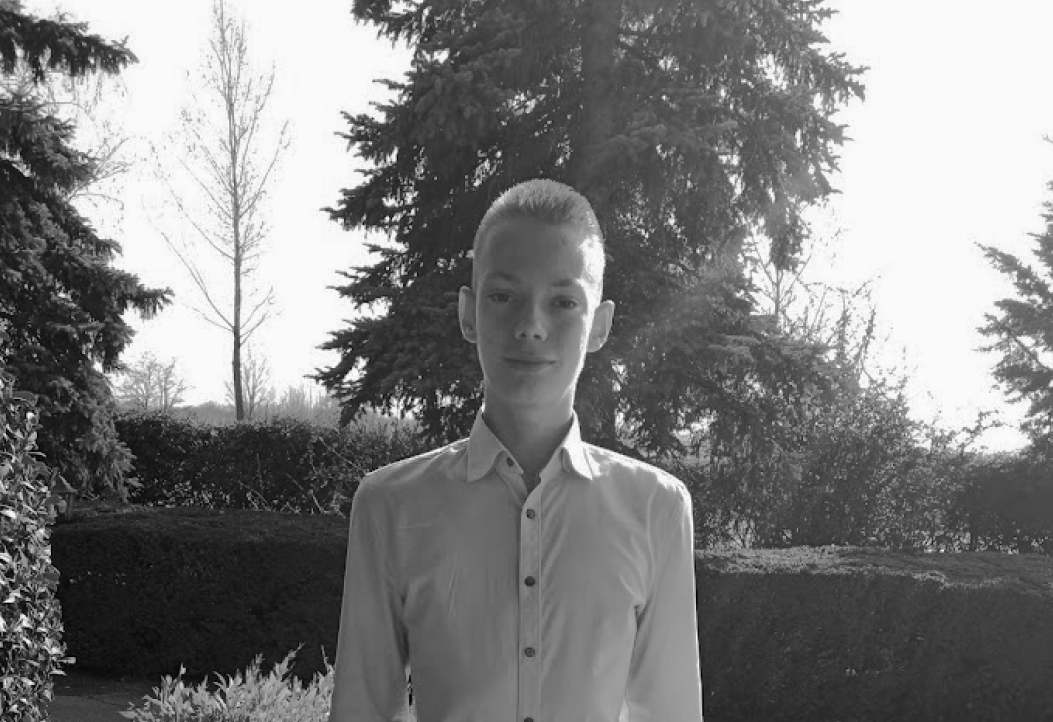
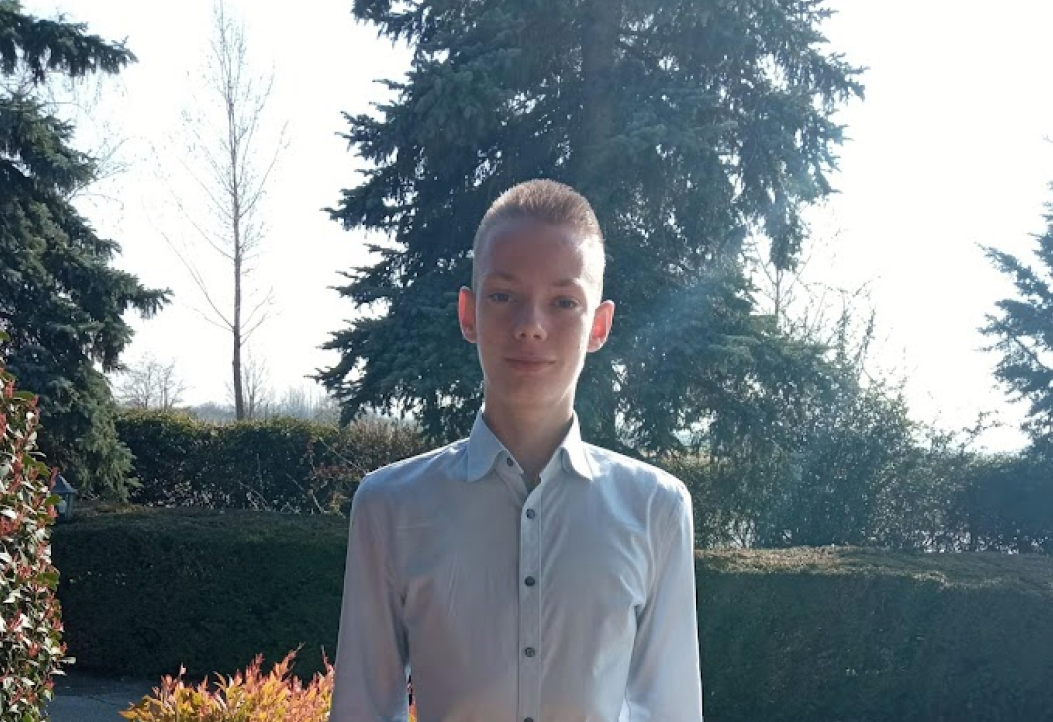
About page

diff --git a/pages/about.js b/pages/about.js
@@ -1,0 +1,65 @@
+import Head from "next/head";
+import { Header } from "../components";
+import Style from "../styles/About.module.css";
+import Link from "next/link";
+import { SkillCard } from "../components";
+
+export default function about() {
+  const skills = [
+    { title: "languages", values: ["HTML", "CSS", "JavaScript"] },
+    { title: "frameworks", values: ["ReactJS", "NextJS", "TailwindCSS"] },
+  ];
+  return (
+    <>
+      <Head>
+        <title>About | Gergő Pásztor</title>
+      </Head>
+      <Header title="I'm Gergő Pásztor" subTitle="Hi!" />
+      <main>
+        <section className={`${Style.section} section`}>
+          <p className={Style.parag}>
+            I was born in Győr, Hungary, and I'm studying at{" "}
+            <a
+              href="https://gyor-pattantyus.www.intezmeny.edir.hu/"
+              hrefLang="hu"
+            >
+              Pattantyús-Ábrahám Géza Technical Secondary school
+            </a>
+            .
+          </p>
+          <div className={Style.circuit}>
+            <div className={Style.Image}></div>
+          </div>
+          <p className={Style.parag}>
+            I live my life as a developer whose aspiration is to create
+            solutions for tribulations.
+          </p>
+        </section>
+        <section className={`${Style.section} section`}>
+          <p>
+            I have built several{" "}
+            <Link href="https://gyor-pattantyus.www.intezmeny.edir.hu/">
+              <a>masterpieces</a>
+            </Link>{" "}
+            for my customers, and I'm still creating software products.
+          </p>
+          <p>
+            In my opinion, uniting with others is an exceptional experience.
+            That's why I usually offer my support.
+          </p>
+          <p>
+            Over and above, I like to participate in competitions and while away
+            with my friends and family.
+          </p>
+          <img src="/images/plus.svg" className={Style.plus} />
+        </section>
+        <section className={`${Style.section} section`}>
+          <h2 className={`${Style.title} sectionTitle`}>Skills</h2>
+          {skills.map(({ title, values }) => (
+            <SkillCard key={title} title={title} values={values} />
+          ))}
+        </section>
+      </main>
+    </>
+  );
+}

diff --git a/components/Navigation/index.jsx b/components/Navigation/index.jsx
@@ -2,9 +2,9 @@ import React, { useState } from "react";
 import Style from "./Navigation.module.css";
 import Link from "next/link";
 import { FontAwesomeIcon } from "@fortawesome/react-fontawesome";
-import { faBars, faTimes } from "@fortawesome/free-solid-svg-icons";
+import { faBars, faHouse, faTimes } from "@fortawesome/free-solid-svg-icons";
 
-export default function Navigation() {
+export default function Navigation({ home }) {
   const [closed, setClosed] = useState(true);
   return (
     <nav className={`${Style.nav} ${closed ? "h-20" : "h-48"}`}>
@@ -25,21 +25,31 @@ export default function Navigation() {
             <FontAwesomeIcon icon={faTimes} />
           </li>
         )}
-        <li className={Style.navlink}>
-          <Link href="#about">
-            <a>About</a>
-          </Link>
-        </li>
-        <li className={Style.navlink}>
-          <Link href="#work">
-            <a>Projects</a>
-          </Link>
-        </li>
-        <li className={Style.navlink}>
-          <Link href="/blog">
-            <a>Blog</a>
-          </Link>
-        </li>
+        {home ? (
+          <>
+            <li className={Style.navlink}>
+              <Link href="#about">
+                <a>About</a>
+              </Link>
+            </li>
+            <li className={Style.navlink}>
+              <Link href="#work">
+                <a>Projects</a>
+              </Link>
+            </li>
+            <li className={Style.navlink}>
+              <Link href="/blog">
+                <a>Blog</a>
+              </Link>
+            </li>
+          </>
+        ) : (
+          <li className={Style.navlink}>
+            <Link href="/">
+              <a>Home</a>
+            </Link>
+          </li>
+        )}
       </ul>
     </nav>
   );

diff --git a/styles/About.module.css b/styles/About.module.css
@@ -1,0 +1,51 @@
+.section {
+  @apply py-8 place-items-center md:text-center relative overflow-hidden;
+}
+.section:nth-child(odd) {
+  @apply bg-zinc-300;
+}
+.parag:first-child {
+  grid-column: 2/4;
+}
+.parag:last-child {
+  grid-column: 10/12;
+}
+.Image {
+  @apply relative w-full h-full  bg-cover bg-center bg-no-repeat saturate-0 hover:saturate-100 transition-all duration-300;
+  background-image: url("/images/GergoAtCompetition.png");
+  margin: 1vw 0 0 1vw;
+}
+.circuit {
+  @apply w-64 h-64 bg-contain bg-center bg-no-repeat overflow-visible flex-grow-[0.3];
+  margin: 2vw 6vw 0 2vw;
+  background-image: url("/images/Circuit.png");
+  grid-column: 5/9;
+}
+
+.section:nth-child(2) p:nth-child(1) {
+  grid-column: 2/4;
+}
+.section:nth-child(2) p:nth-child(2) {
+  grid-column: 5/9;
+}
+.section:nth-child(2) p:nth-child(3) {
+  grid-column: 10/12;
+}
+.plus {
+  @apply absolute rotate-90;
+  grid-column: 10/13;
+}
+.title {
+  @apply place-self-center content-center;
+  grid-column: 6/8;
+  grid-row: 1/3;
+}
+
+@media all and (max-width: 768px) {
+  .section {
+    @apply text-left flex flex-col gap-y-6;
+  }
+  .circuit {
+    @apply w-48 h-48;
+  }
+}

diff --git a/components/Header/index.jsx b/components/Header/index.jsx
@@ -3,7 +3,7 @@ import React from "react";
 import Navigation from "../Navigation";
 import Style from "./Header.module.css";
 
-export default function Header() {
+export default function Header({ title, subTitle, home }) {
   return (
     <header className={Style.header}>
       <div className={Style.left}>
@@ -14,12 +14,12 @@ export default function Header() {
           height="100%"
         />
         <div>
-          <h2 className={Style.before}>My name is</h2>
-          <h1 className={Style.name}>Gergő Pásztor</h1>
+          <h2 className={Style.before}>{subTitle}</h2>
+          <h1 className={Style.name}>{title}</h1>
         </div>
       </div>
       <div className={Style.right}>
-        <Navigation />
+        <Navigation home={home} />
       </div>
     </header>
   );

diff --git a/styles/globals.css b/styles/globals.css
@@ -28,3 +28,23 @@ header {
     grid-column: 3/5 !important;
   }
 }
+
+p a {
+  @apply uppercase font-semibold text-base;
+  text-decoration: none;
+  background-image: linear-gradient(to right, #02c39a, #05668d 130%);
+  background-position: 0% 100%;
+  background-repeat: no-repeat;
+  background-size: 0% 0.15rem;
+  transition: background-size cubic-bezier(0, 0.5, 0, 1) 0.3s;
+}
+p a:hover {
+  text-decoration: none;
+  background-size: 100% 0.15rem;
+}
+.skillCard:nth-child(2) {
+  grid-column: 2/5;
+}
+.skillCard:nth-child(3) {
+  grid-column: 9/12;
+}

diff --git a/components/Navigation/Navigation.module.css b/components/Navigation/Navigation.module.css
@@ -5,7 +5,7 @@
   @apply flex flex-col h-full md:flex-row gap-x-12 gap-y-3 md:items-center items-end md:justify-end;
 }
 .navlink {
-  @apply uppercase font-semibold text-base relative z-10;
+  @apply uppercase font-semibold text-base relative z-10 flex items-center;
 }
 .navlink::after {
   @apply absolute w-full h-1/2 bg-primary bg-opacity-80 content-[""] bottom-0 left-0 z-[-1] scale-y-0 transition-transform origin-bottom;

diff --git a/components/SkillCard/index.jsx b/components/SkillCard/index.jsx
@@ -1,0 +1,15 @@
+import React from "react";
+import Style from "./SkillCard.module.css";
+
+export default function SkillCard({ title, values }) {
+  return (
+    <div className={`${Style.card} skillCard`}>
+      <h3 className={Style.title}>{title}</h3>
+      <ul className={Style.list}>
+        {values.map((value, idx) => (
+          <li key={idx}>{value}</li>
+        ))}
+      </ul>
+    </div>
+  );
+}

diff --git a/pages/index.js b/pages/index.js
@@ -1,14 +1,13 @@
-import { About, Header, Projects, Footer } from "../components";
+import { About, Header, Projects } from "../components";
 
 export default function Home() {
   return (
     <>
-      <Header />
+      <Header title="Gergő Pásztor" home subTitle="My name is" />
       <main>
         <About />
         <Projects />
       </main>
-      <Footer />
     </>
   );
 }

diff --git a/pages/_app.js b/pages/_app.js
@@ -1,7 +1,13 @@
-import '../styles/globals.css'
+import "../styles/globals.css";
+import { Footer } from "../components";
 
 function MyApp({ Component, pageProps }) {
-  return <Component {...pageProps} />
+  return (
+    <>
+      <Component {...pageProps} />
+      <Footer />
+    </>
+  );
 }
 
-export default MyApp
+export default MyApp;

diff --git a/components/About/About.module.css b/components/About/About.module.css
@@ -7,7 +7,7 @@
   grid-column: 6/8;
 }
 .Image {
-  @apply relative w-full h-full  bg-contain bg-center bg-no-repeat;
+  @apply relative w-full h-full  bg-contain bg-center bg-no-repeat saturate-0 hover:saturate-100 transition-all duration-300;
   background-image: url("/images/GergoTyping.png");
   margin: 3vw 0 0 3vw;
 }

diff --git a/components/index.js b/components/index.js
@@ -2,3 +2,4 @@ export { default as Header } from "./Header";
 export { default as About } from "./About";
 export { default as Projects } from "./Projects";
 export { default as Footer } from "./Footer";
+export { default as SkillCard } from "./SkillCard";

diff --git a/components/SkillCard/SkillCard.module.css b/components/SkillCard/SkillCard.module.css
@@ -1,0 +1,9 @@
+.card {
+  @apply bg-white w-56 h-56 text-text flex flex-col items-center justify-evenly p-4 text-left;
+}
+.title {
+  @apply text-base uppercase font-semibold;
+}
+.list {
+  @apply list-disc pl-2 text-base;
+}
